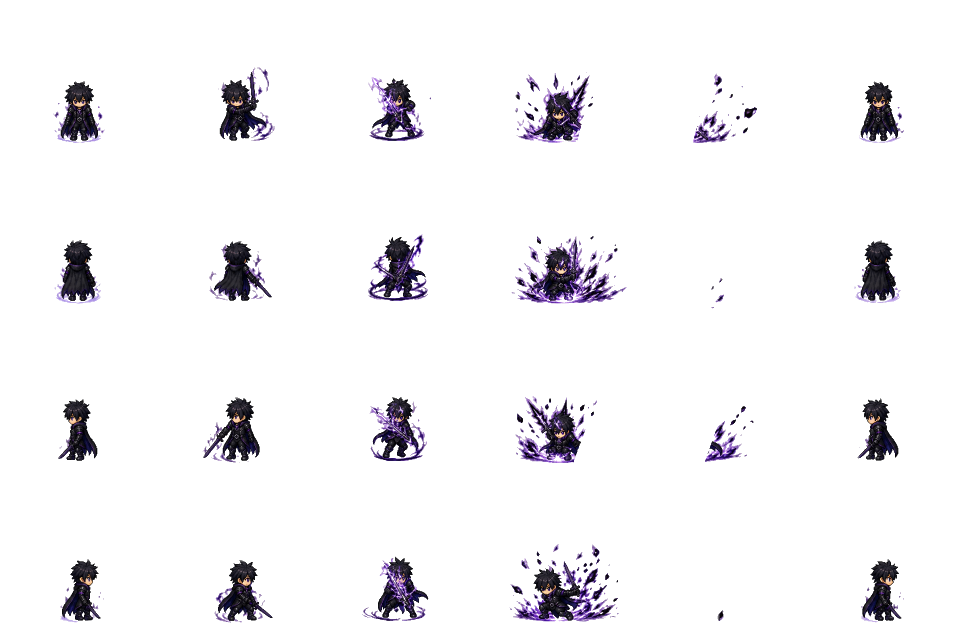
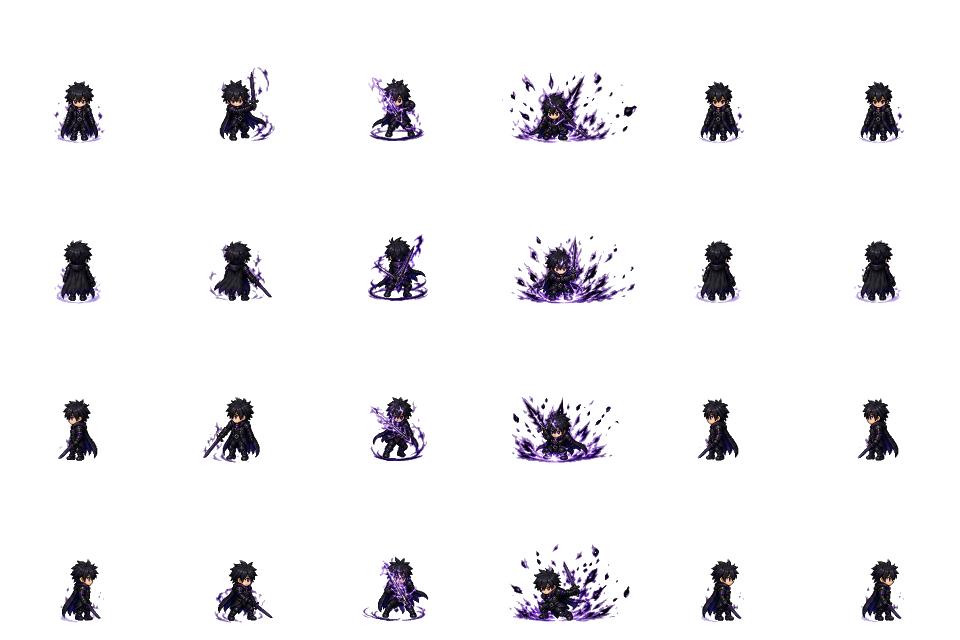
Fix: character vanishing for a frame (AW basic attack 2, UB Shadow Break)
- AW atk2 used column 4 of AW3, an effect-only frame with no character -> removed from the animation
- UB SK6 is drawn with 5 frames per row (double-wide explosion): build-player.js supports
  { frames: 5 }, so the explosion is no longer sliced in two and no empty frame is produced
- build-player.js records emptyFrames per sheet in atlas.json
- tools/tests/sprites.test.mjs: every class animation must use existing, non-empty frames in all
  4 directions and every sheet must pass the visual standard

diff --git a/tools/build-player.js b/tools/build-player.js
@@ -30,7 +30,7 @@ PRESETS.ub = { out: 'assets/player', sheets: {
   sk3: ['desgin/class cr/UB/UB SK3.PNG', 4],
   sk4: ['desgin/class cr/UB/UB SK4.png', 4],
   sk5: ['desgin/class cr/UB/UB SK5.png', 4],
-  sk6: ['desgin/class cr/UB/UB SK6.png', 4],
+  sk6: ['desgin/class cr/UB/UB SK6.png', 4, { frames: 5 }], // the explosion frame is drawn double-wide: 5 frames per row
   ult: ['desgin/class cr/UB/UB UT.png', 4],
   vfx: ['desgin/class cr/UB/UB VFX', 8],
 } };
@@ -318,14 +318,14 @@ function validate(sheet, rows) {
 // pixels belongs to the frame whose character body it contains (or, for loose effects such as
 // magic circles, sparks and constellations, the frame its centre falls in). A frame may therefore
 // be wider than its grid cell and effects are never sliced. Returns one cropped RGBA image per frame.
-function componentFrames(img, y0, y1, xs) {
+function componentFrames(img, y0, y1, xs, n = COLS) {
   const W = img.width, H = y1 - y0, d = img.data;
   const lab = new Int32Array(W * H).fill(-1), comps = [];
   const at = (x, y) => ((y0 + y) * W + x) * 4;
   for (let y = 0; y < H; y++) for (let x = 0; x < W; x++) {
     const p = y * W + x;
     if (lab[p] >= 0 || d[at(x, y) + 3] < 40) continue;
-    const id = comps.length, c = { n: 0, sx: 0, dark: new Float64Array(COLS), dx: new Float64Array(COLS), dy: new Float64Array(COLS), dMin: 1e9, dMax: -1, minx: x, maxx: x, miny: y, maxy: y };
+    const id = comps.length, c = { n: 0, sx: 0, dark: new Float64Array(n), dx: new Float64Array(n), dy: new Float64Array(n), dMin: 1e9, dMax: -1, minx: x, maxx: x, miny: y, maxy: y };
     comps.push(c);
     const st = [p]; lab[p] = id;
     while (st.length) {
@@ -333,7 +333,7 @@ function componentFrames(img, y0, y1, xs) {
       c.n++; c.sx += qx;
       if (qx < c.minx) c.minx = qx; if (qx > c.maxx) c.maxx = qx; if (qy < c.miny) c.miny = qy; if (qy > c.maxy) c.maxy = qy;
       if (d[i + 3] >= 200 && d[i] + d[i + 1] + d[i + 2] < 150) {
-        let k = 0; while (k < COLS - 1 && qx >= xs[k + 1]) k++;
+        let k = 0; while (k < n - 1 && qx >= xs[k + 1]) k++;
         c.dark[k]++; c.dx[k] += qx; c.dy[k] += qy;
       }
       if (d[i + 3] >= 40 && d[i] + d[i + 1] + d[i + 2] < 110) { if (qy < c.dMin) c.dMin = qy; if (qy > c.dMax) c.dMax = qy; }
@@ -356,7 +356,7 @@ function componentFrames(img, y0, y1, xs) {
     let best = -1, bm = 29;
     c.dark.forEach((m, k) => { if (m > bm) { bm = m; best = k; } });
     if (best >= 0) return best;
-    const cx = c.sx / c.n; let k = 0; while (k < COLS - 1 && cx >= xs[k + 1]) k++; return k;
+    const cx = c.sx / c.n; let k = 0; while (k < n - 1 && cx >= xs[k + 1]) k++; return k;
   });
   const pixelOwner = (l, x, y) => {
     const o = owner[l];
@@ -367,7 +367,7 @@ function componentFrames(img, y0, y1, xs) {
   };
   const owns = (l, k) => l >= 0 && (owner[l] === k || (owner[l] === -2 && bodies[l].some((b) => b.k === k)));
   const frames = [];
-  for (let k = 0; k < COLS; k++) {
+  for (let k = 0; k < n; k++) {
     let minx = 1e9, maxx = -1, miny = 1e9, maxy = -1;
     let bTop = 1e9, bBot = -1; // body extent (for the scale / ground measurement)
     comps.forEach((c, i) => {
@@ -402,7 +402,8 @@ const OUT = path.join(ROOT, outRel);
 fs.mkdirSync(OUT, { recursive: true });
 console.log('== preset', key, '->', outRel);
 const atlas = { preset: key, standard: STD, cols: COLS, sheets: {}, validation: {} };
-for (const [name, [file, rows]] of Object.entries(SHEETS)) {
+for (const [name, [file, rows, opt = {}]] of Object.entries(SHEETS)) {
+  const n = opt.frames || COLS; // frames actually drawn per row in the source (output is always COLS wide)
   const img = png.read(path.join(ROOT, file));
   removeBackground(img);
   const py = projection(img, true);
@@ -410,8 +411,9 @@ for (const [name, [file, rows]] of Object.entries(SHEETS)) {
   const cells = [], neutral = [];
   for (let r = 0; r < rows; r++) {
     const bx = bodyProjection(img, ys[r], ys[r + 1]), px = projection(img, false, ys[r], ys[r + 1]);
-    const xs = blobSplits(bx, COLS, img.width) || blobSplits(px, COLS, img.width) || splits(px, COLS, img.width);
-    const frames = componentFrames(img, ys[r], ys[r + 1], xs);
+    const xs = blobSplits(bx, n, img.width) || blobSplits(px, n, img.width) || splits(px, n, img.width);
+    const frames = componentFrames(img, ys[r], ys[r + 1], xs, n);
+    while (frames.length < COLS) frames.push(frames[frames.length - 1]); // short rows: hold the last pose
     for (let c = 0; c < COLS; c++) {
       const f = frames[c];
       const a = f && analyseCell(f, 0, 0, f.width, f.height);
@@ -446,6 +448,14 @@ for (const [name, [file, rows]] of Object.entries(SHEETS)) {
   const sides = [];
   for (let base = 0; base < rows; base += 4) sides.push(sideRows(sheet, { fw: CW, fh: CH, ax: PX }, base));
   atlas.sheets[name] = { file: outRel + '/' + name + '.png', fw: CW, fh: CH, rows, cols: COLS, ax: PX, ay: PY, sides, sourceScale: +scale.toFixed(4) };
+  // frames with (almost) no character body: animations must never show them (tools/tests/sprites.test.mjs)
+  atlas.sheets[name].emptyFrames = [];
+  for (let r = 0; r < rows; r++) for (let c = 0; c < COLS; c++) {
+    let cnt = 0;
+    for (let y = 0; y < CH; y++) for (let x = 0; x < CW; x++) { const i = ((r * CH + y) * sheet.width + c * CW + x) * 4, dd = sheet.data; if (dd[i + 3] > 150 && dd[i] + dd[i + 1] + dd[i + 2] < 200) cnt++; }
+    if (cnt < 300) atlas.sheets[name].emptyFrames.push([r, c]);
+  }
+  if (atlas.sheets[name].emptyFrames.length) console.log('   empty frames in', name, JSON.stringify(atlas.sheets[name].emptyFrames));
   const v = validate(sheet, rows);
   atlas.validation[name] = v;
   console.log(name.padEnd(6), 'scale', scale.toFixed(3), 'body', v.bodyHeight, 'feet±', v.feetMaxOffset, 'center', v.centerOffset, v.ok ? 'OK' : '⚠ ' + v.issues.join(', '));

diff --git a/src/skills/astralWeaver.js b/src/skills/astralWeaver.js
@@ -17,7 +17,7 @@ export const AW_ANIMS = {
   walk: { sheet: 'walk', cols: [1, 2, 3, 4, 5], fps: 9, loop: true },
   run: { sheet: 'walk', cols: [1, 2, 3, 4, 5], fps: 13, loop: true },
   atk1: { sheet: 'atk1', cols: [1, 2, 3, 4] },
-  atk2: { sheet: 'atk2', cols: [1, 2, 3, 4] },
+  atk2: { sheet: 'atk2', cols: [1, 2, 3, 3] }, // col 4 of AW3 is an effect-only frame (no character)
   atk3: { sheet: 'cast', cols: [1, 2, 3, 4, 5] },
   dodge: { sheet: 'sk3', cols: [2, 3, 4] },
   starNeedle: { sheet: 'sk1', cols: [1, 2, 3, 4, 5] },

diff --git a/src/player/playerSprites.js b/src/player/playerSprites.js
@@ -19,7 +19,7 @@ export const ANIMS = {
   twinFang: { sheet: 'sk3', cols: [1, 2, 3, 4, 5] },
   aura: { sheet: 'sk4', cols: [1, 2, 3, 4, 5] },
   shadowArc: { sheet: 'sk5', cols: [1, 2, 3, 4, 5] },
-  shadowBreak: { sheet: 'sk6', cols: [1, 2, 3, 4, 5] },
+  shadowBreak: { sheet: 'sk6', cols: [1, 2, 3, 3, 4] }, // sk6 has 5 source frames (explosion held)
   eclipse: { sheet: 'ult', cols: [1, 2, 3, 3, 4, 4, 5] },
   counter: { sheet: 'pr', cols: [1, 2, 3, 4, 5] },
   guard: { sheet: 'guard', cols: [1, 2, 3, 4, 5] },

diff --git a/README.md b/README.md
@@ -89,7 +89,7 @@ The combat core never references Umbral Sword directly: a class is a stat block 
 Unit tests (pure combat core, no browser):
 
 ```bash
-node tools/tests/run.mjs          # all unit tests (combat, resource, skill, mark, status, thread)
+node tools/tests/run.mjs          # all unit tests (combat, resource, skill, mark, status, thread, sprites)
 ```
 
 In-game: a **training yard** with 3 Training Dummies (HP, DPS meter, auto-reset) stands west of the Lumina fountain.
